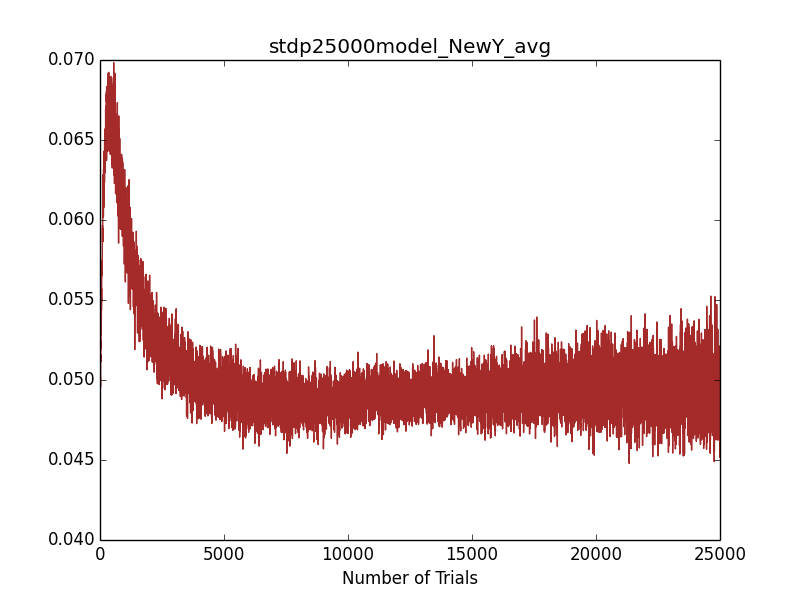
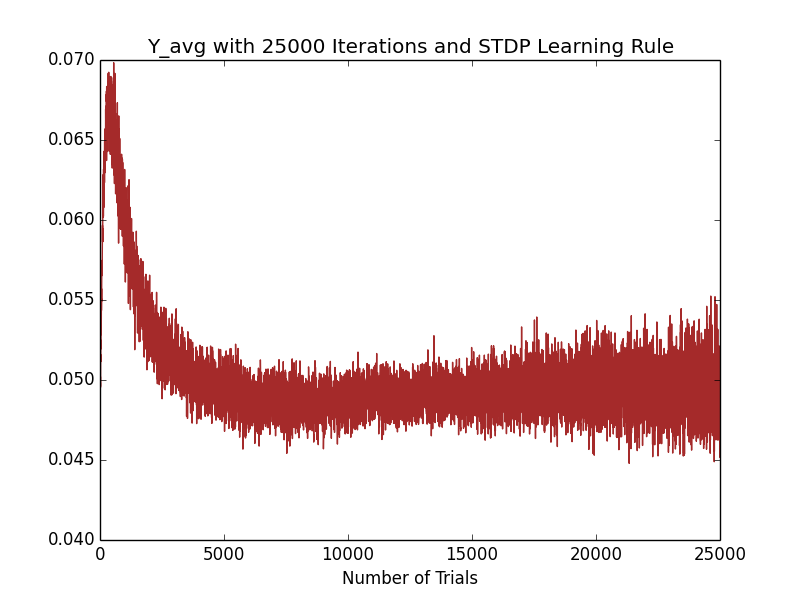
Retitled some of the figures to beter explain their significance.

Changed region(s): [[0.1875, 0.06, 0.8438, 0.09]]

diff --git a/Plotting/SAILnet_Plotting.py b/Plotting/SAILnet_Plotting.py
@@ -20,7 +20,7 @@ class Run():
     def __init__(self,fileName):
         self.fileName=fileName
         with open(self.fileName,'rb') as f:
-            self.W,self.Q,self.theta,self.stdp,self.mag_stdp,self.mag_dW, self.correlation, self.Yavg,self.Cavg, self.time_dep, self.rec_error = cPickle.load(f)
+            self.W,self.Q,self.theta,self.stdp,self.mag_stdp,self.mag_dW, self.correlation, self.Yavg,self.Cavg, self.time_dep,self.rec_error = cPickle.load(f)
     
     
     
@@ -33,7 +33,7 @@ class Run():
 
         img = tile_raster_images(self.Q.T, img_shape = (side,side), tile_shape = (2*side,side*OC/2), tile_spacing=(1, 1), scale_rows_to_unit_interval=True, output_pixel_vals=True)
         plt.imshow(img,cmap=plt.cm.Greys)
-        plt.title('Receptive Fields with 25000 Iterations and dW Learning Rule')
+        plt.title('Receptive Fields with 25000 Iterations and STDP Learning Rule')
         plt.imsave('Images/RF '+self.fileName[:len(self.fileName)-4]+'.png', img, cmap=plt.cm.Greys)
         plt.show()
         plt.close
@@ -45,51 +45,51 @@ class Run():
         plt.plot(self.mag_stdp, color="green", label="STDP")
         plt.plot(self.mag_dW,color="blue", label="dW")
         plt.legend(bbox_to_anchor=(1,.5))
-        plt.title("Magnitude of STDP and dW with 25000 Iterations and dW Learning Rule")
+        plt.title("Magnitude of STDP and dW with 25000 Iterations and STDP Learning Rule")
         plt.xlabel("Number of Trials")
         plt.savefig('Images/stdp_dW_'+self.fileName[:len(self.fileName)-4]+'.png')
         plt.clf
         
     def Plotstdp(self):
         plt.plot(self.mag_stdp, color="green", label="STDP")
-        plt.title("Magnitude of STDP with 25000 Iterations and dW Learning Rule")
+        plt.title("Magnitude of STDP with 25000 Iterations and STDP Learning Rule")
         plt.xlabel("Number of Trials")
         plt.savefig('Images/Magnitude STDP Using'+self.fileName[:len(self.fileName)-4]+'.png')
     
     def PlotdW(self):
         plt.plot(self.mag_dW,color="blue", label="dW")
-        plt.title("Magnitude of dW with 25000 Iterations and dW Learning Rule ")
+        plt.title("Magnitude of dW with 25000 Iterations and STDP Learning Rule ")
         plt.xlabel("Number of Trials")
         plt.savefig('Images/Magnitude dW Using'+self.fileName[:len(self.fileName)-4]+'.png')
         
     def PlotYavg(self):
         
         plt.plot(self.Yavg, color="brown")
-        plt.title('Y_avg with 25000 Iterations and dW Learning Rule')
+        plt.title('Y_avg with 25000 Iterations and STDP Learning Rule')
         plt.xlabel("Number of Trials")
         plt.savefig('Images/Y_avg'+self.fileName[:len(self.fileName)-4]+'.png')
     
     def PlotCavg(self):
         
         plt.plot(self.Cavg, color="red")
-        plt.title('C_avg with 25000 Iterations and dW Learning Rule')
+        plt.title('C_avg with 25000 Iterations and STDP Learning Rule')
         plt.xlabel("Number of Trials")
         plt.savefig('Images/C_avg'+ self.fileName[:len(self.fileName)-4] + '.png')
         
     def Plotcor(self):
         
         plt.plot(self.correlation, color = "purple")
-        plt.title('Correlation of dW and STDP with 25000 Iterations and dW Learning Rule')
+        plt.title('Correlation of dW and STDP with 25000 Iterations and STDP Learning Rule')
         plt.xlabel("Number of Trials")
         plt.savefig('Images/Correlation of dW and STDP'+self.fileName[:len(self.fileName)-4] +'.png')
 
     def PlotTimeDep(self):
         plt.plot(self.time_dep[25])
         plt.title(self.fileName[:len(self.fileName)-4] + 'Time Weighting Matrix')
-        
+    
     def PlotRecError(self):
         plt.plot(self.rec_error)
-        plt.title("Mean Squared Error of SAILNet's Reconstruction with 25000 Iterations and dW Learning Rule")
+        plt.title("Mean Squared Error of SAILNet's Reconstruction with 25000 Iterations and STDP Learning Rule")
         plt.savefig('Images/Reconstruction Error '+ self.fileName[:len(self.fileName)-4]+ '.png')
     
     def PlotAll(self):
@@ -111,7 +111,7 @@ class Run():
 
 #stdp5000New=Run("stdp5000model_New.pkl")
 #stdp25000New=Run("stdp25000model_New.pkl")
-dW25000New=Run("dW25000model_New.pkl")
+dW25000New=Run("stdp25000model_New.pkl")
 
 
 #stdp25000New.PlotAll()
